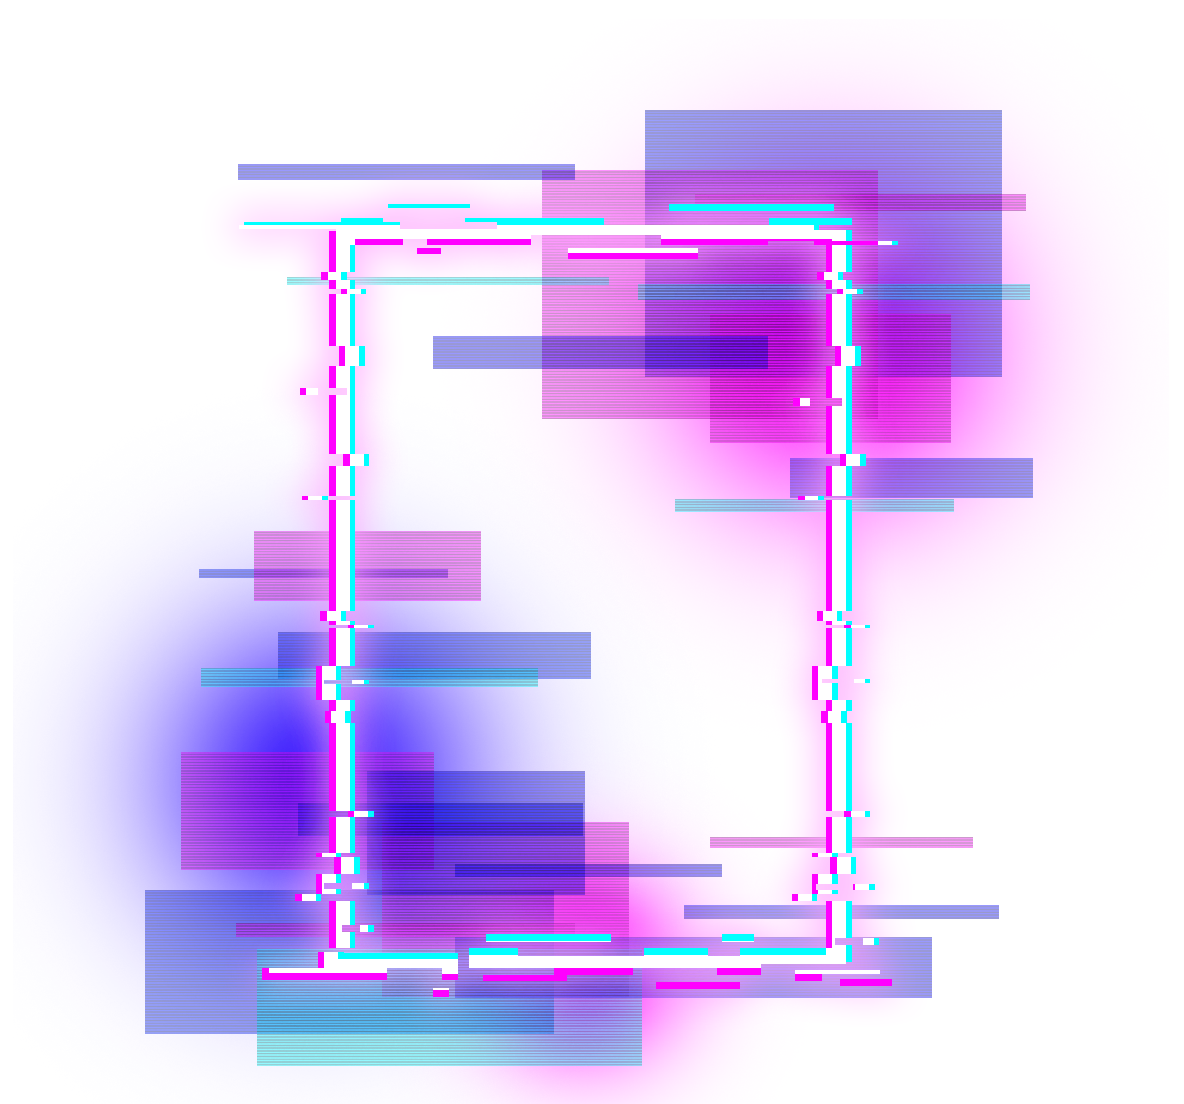
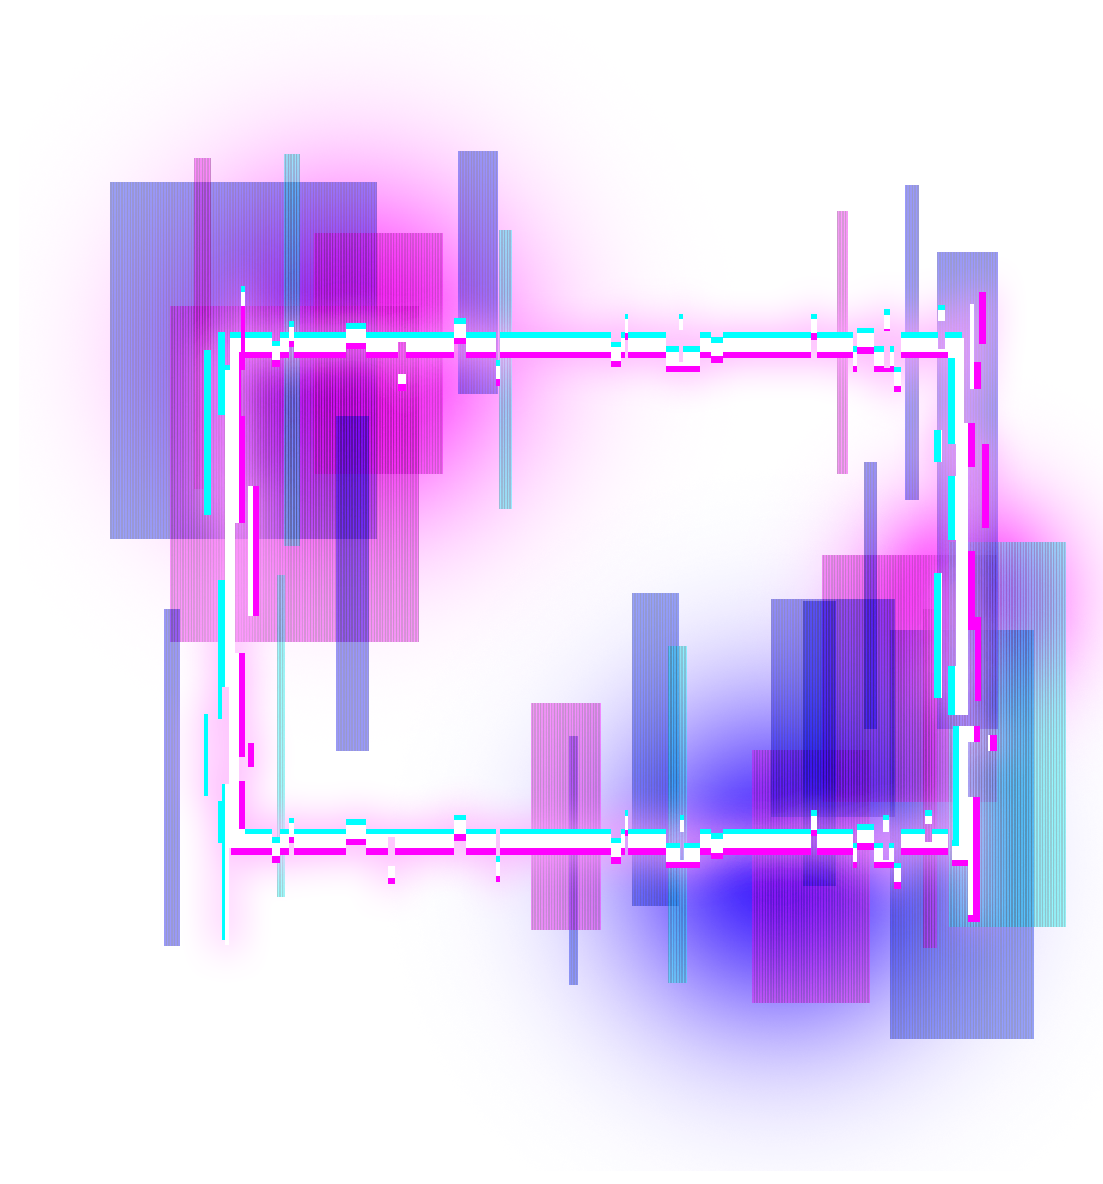
changing image orientation

diff --git a/sketch.js b/sketch.js
@@ -10,6 +10,8 @@ function setup() {
   video = createVideo("video/glitch.mp4");
  video.size(windowWidth, windowHeight);
  video.loop();
+ video.position(0,0);
+video.style("z-index", "-10");
 
 //Welcome text
  fill(43,30,174);
@@ -17,7 +19,7 @@ function setup() {
  textSize(36);
 text('Welcome', width/2.5, height/3);
  loadImage('assets/rect.png', img => {
-   image(img, width/4, 50);
+   image(img, 100, 0);
  });
 //start button
   button1 = createButton('Start');
